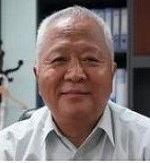
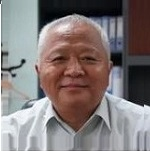
图像大小

diff --git a/css/nasac_fmac.css b/css/nasac_fmac.css
@@ -616,7 +616,7 @@ top:0
 }
 
 .photo2{
-	background-image:url(../images/photo/2.jpg)
+	background-image:url(../images/photo/22.jpg)
 }
 
 .photo3{
@@ -640,7 +640,7 @@ top:0
 }
 
 .photo8{
-	background-image:url(../images/photo/88.png)
+	background-image:url(../images/photo/888.png)
 }
 
 .photo9{
